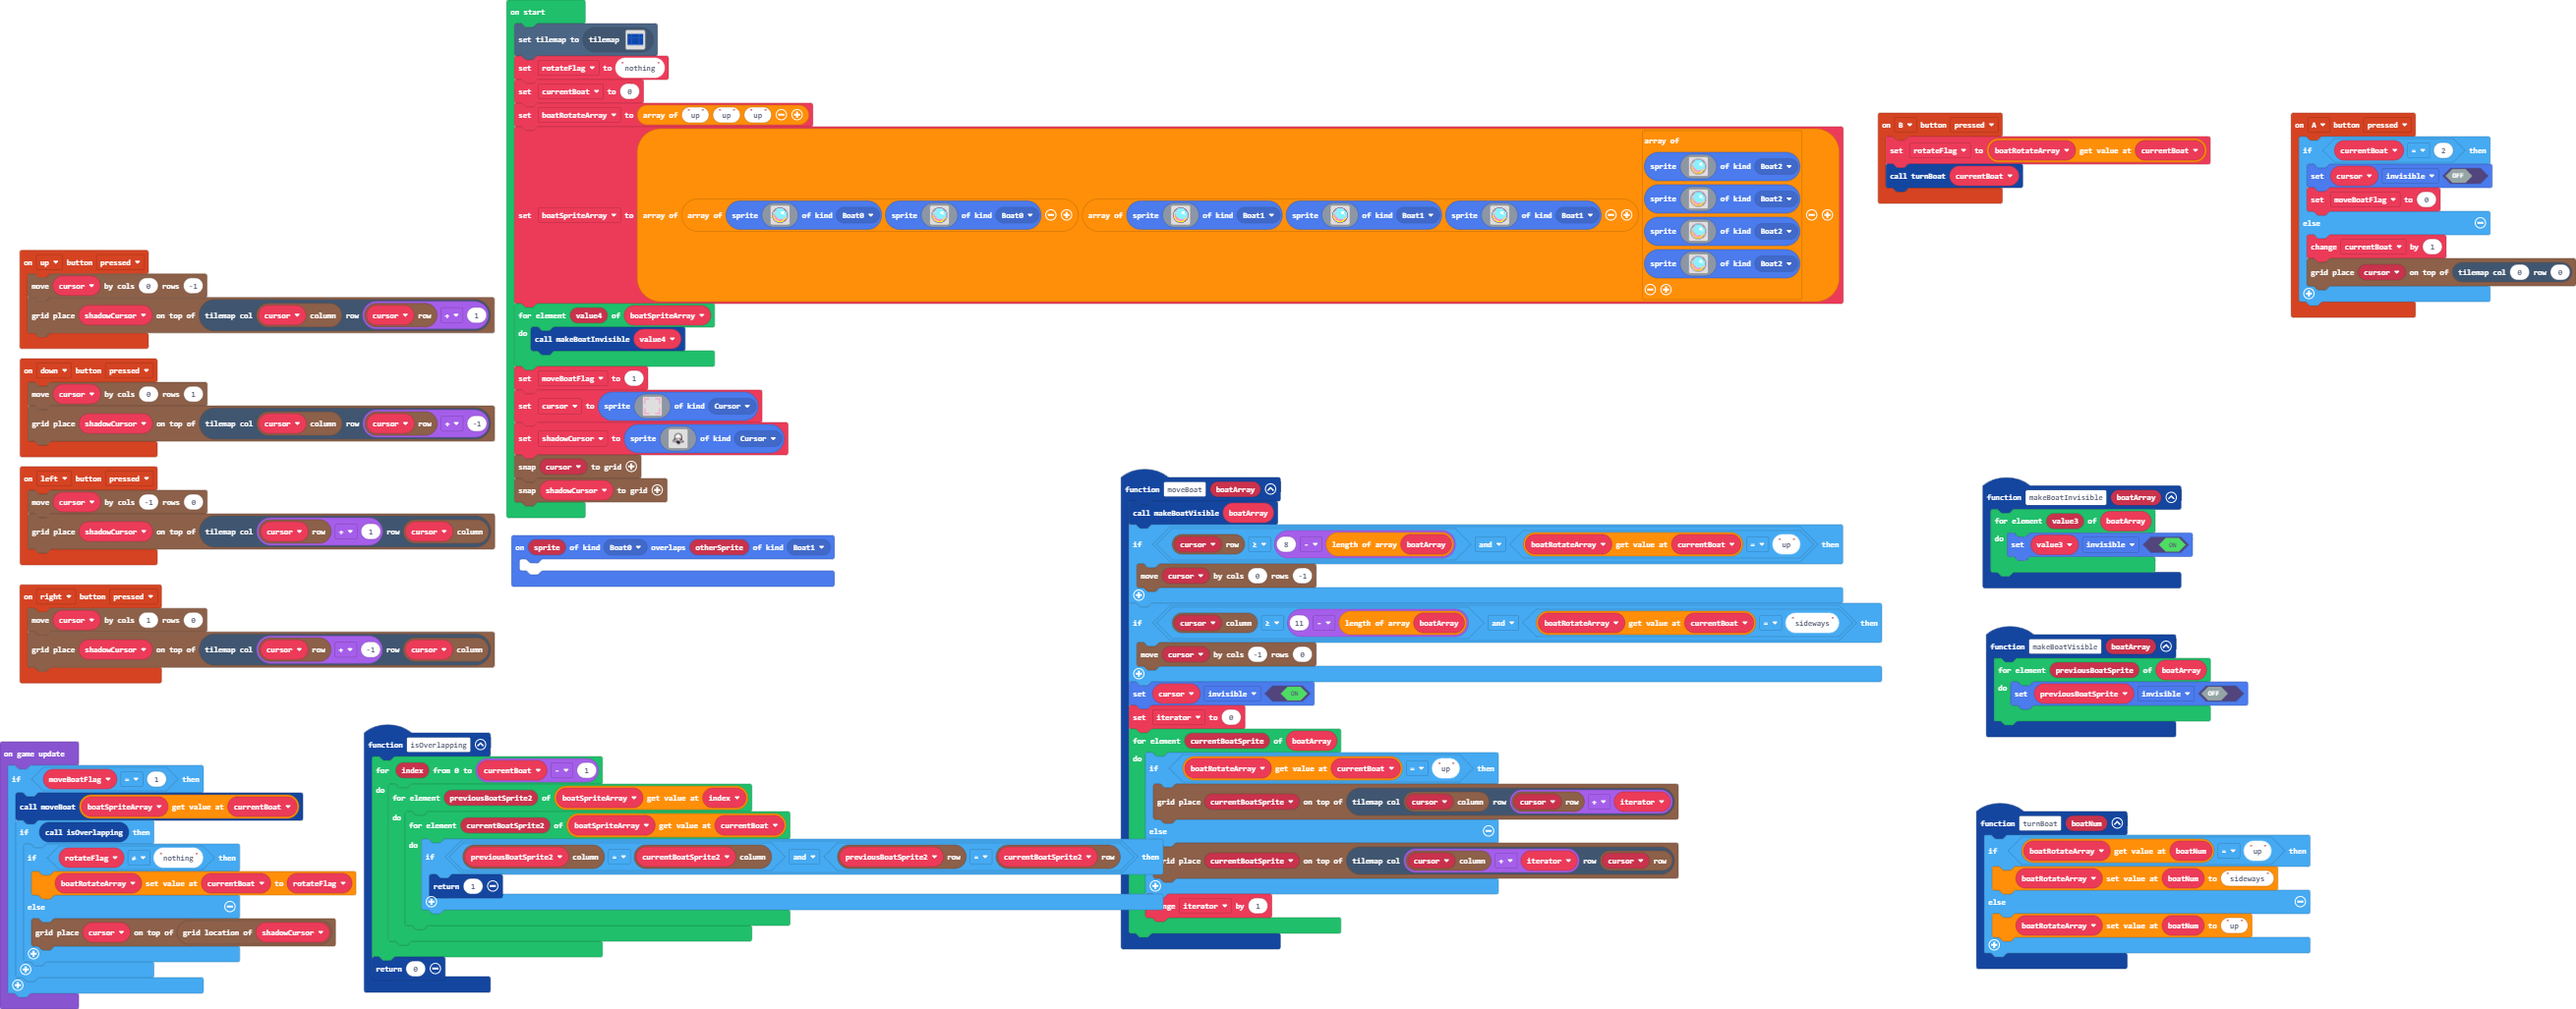
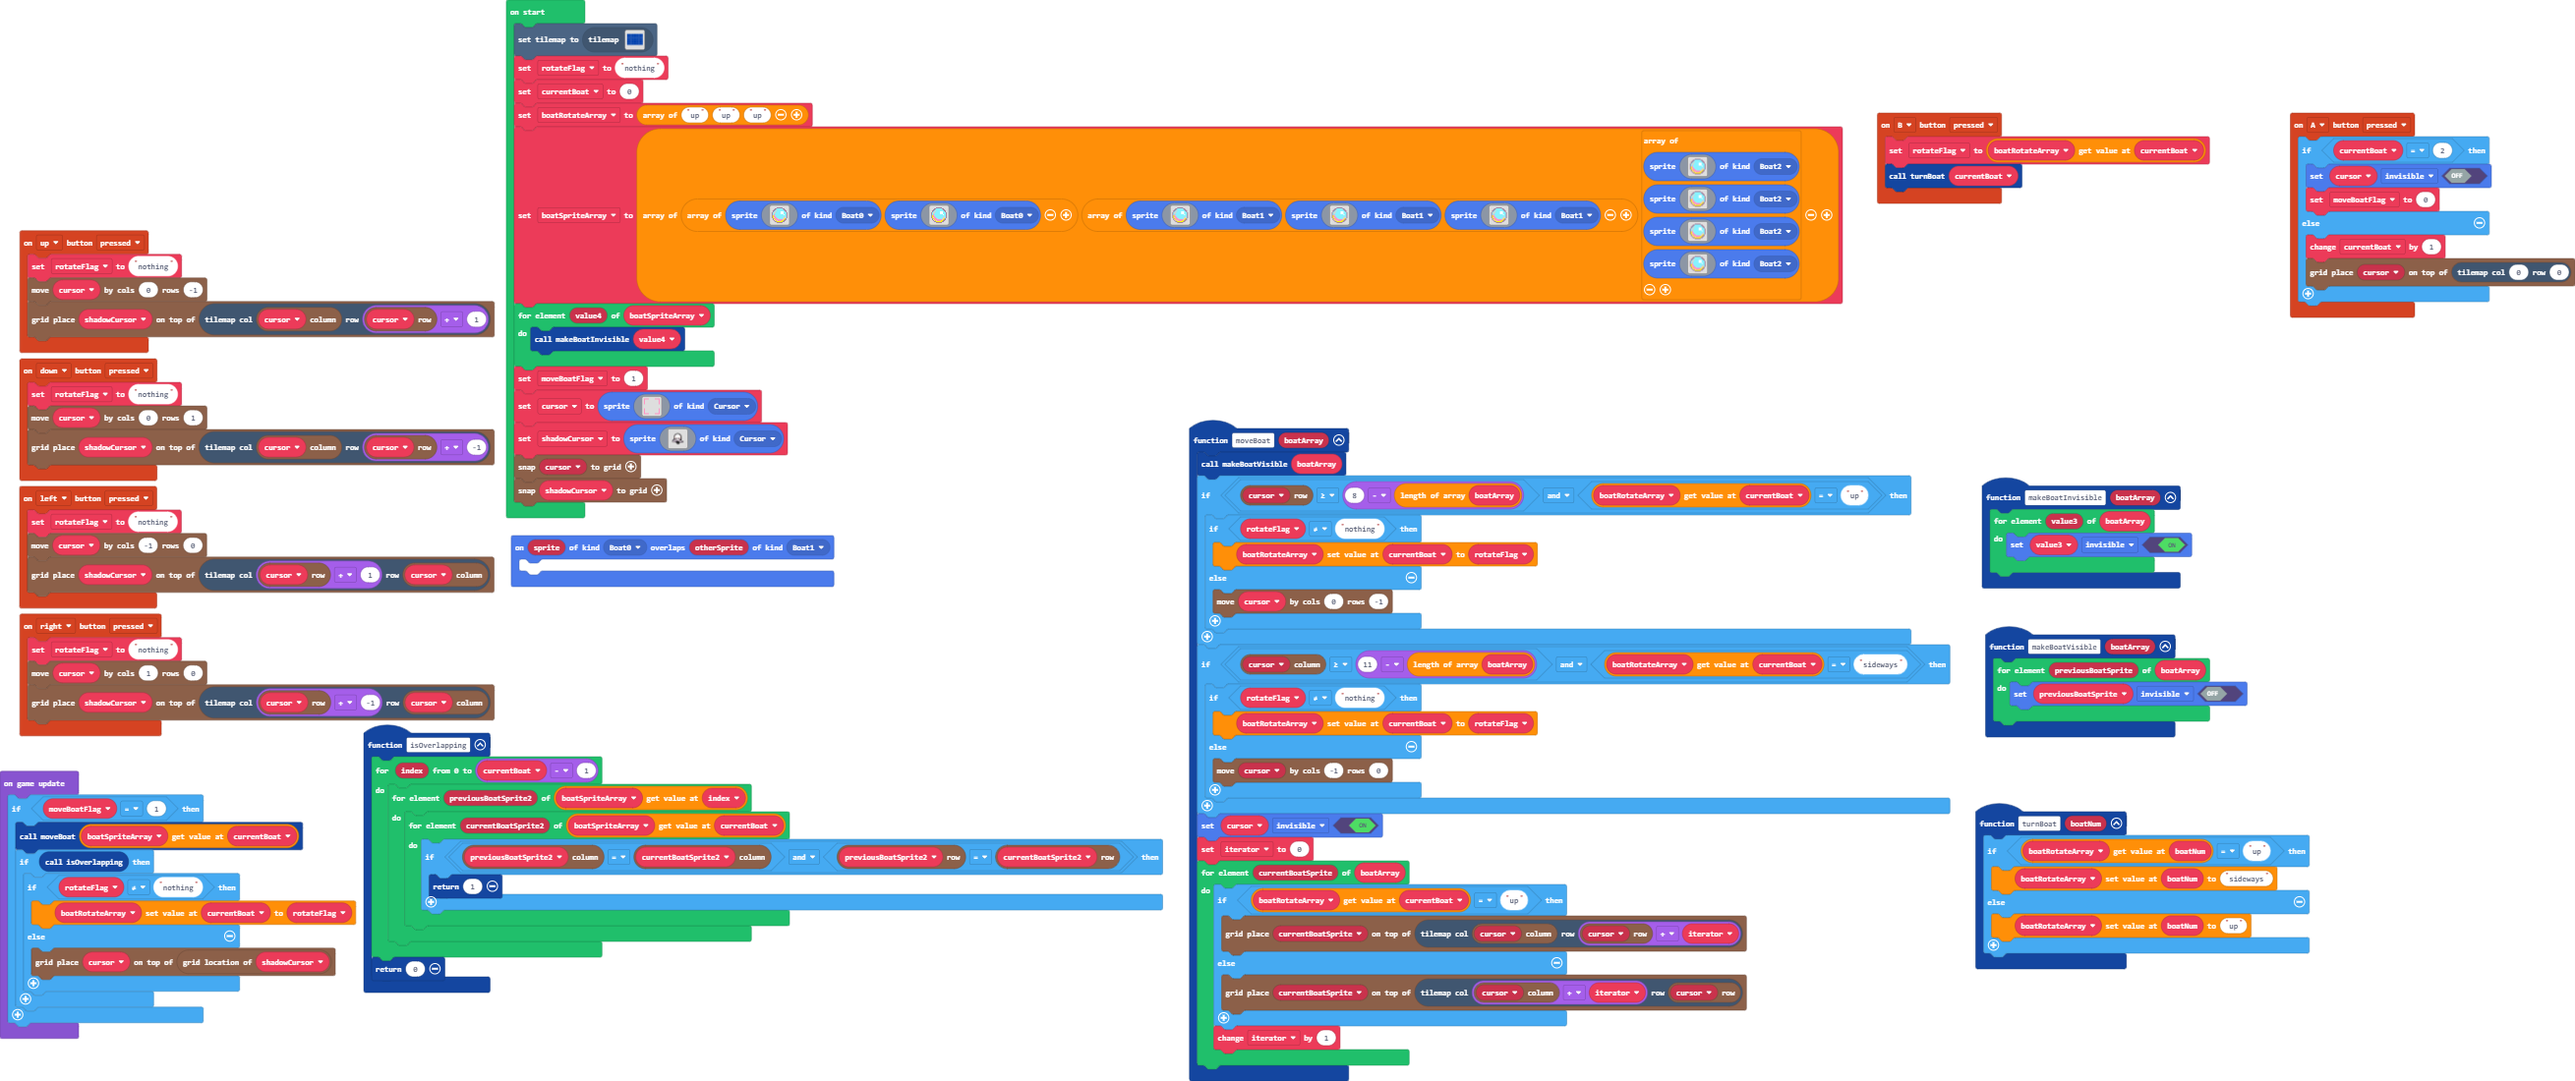
fixed rotate bug (bottom screen)

diff --git a/main.ts b/main.ts
@@ -5,6 +5,7 @@ namespace SpriteKind {
     export const Boat2 = SpriteKind.create()
 }
 controller.up.onEvent(ControllerButtonEvent.Pressed, function () {
+    rotateFlag = "nothing"
     grid.move(cursor, 0, -1)
     grid.place(shadowCursor, tiles.getTileLocation(grid.spriteCol(cursor), grid.spriteRow(cursor) + 1))
 })
@@ -30,20 +31,30 @@ controller.A.onEvent(ControllerButtonEvent.Pressed, function () {
     }
 })
 controller.left.onEvent(ControllerButtonEvent.Pressed, function () {
+    rotateFlag = "nothing"
     grid.move(cursor, -1, 0)
     grid.place(shadowCursor, tiles.getTileLocation(grid.spriteRow(cursor) + 1, grid.spriteCol(cursor)))
 })
 controller.right.onEvent(ControllerButtonEvent.Pressed, function () {
+    rotateFlag = "nothing"
     grid.move(cursor, 1, 0)
     grid.place(shadowCursor, tiles.getTileLocation(grid.spriteRow(cursor) + -1, grid.spriteCol(cursor)))
 })
 function moveBoat (boatArray: any[]) {
     makeBoatVisible(boatArray)
     if (grid.spriteRow(cursor) >= 8 - boatArray.length && boatRotateArray[currentBoat] == "up") {
-        grid.move(cursor, 0, -1)
+        if (rotateFlag != "nothing") {
+            boatRotateArray[currentBoat] = rotateFlag
+        } else {
+            grid.move(cursor, 0, -1)
+        }
     }
     if (grid.spriteCol(cursor) >= 11 - boatArray.length && boatRotateArray[currentBoat] == "sideways") {
-        grid.move(cursor, -1, 0)
+        if (rotateFlag != "nothing") {
+            boatRotateArray[currentBoat] = rotateFlag
+        } else {
+            grid.move(cursor, -1, 0)
+        }
     }
     cursor.setFlag(SpriteFlag.Invisible, true)
     iterator = 0
@@ -57,6 +68,7 @@ function moveBoat (boatArray: any[]) {
     }
 }
 controller.down.onEvent(ControllerButtonEvent.Pressed, function () {
+    rotateFlag = "nothing"
     grid.move(cursor, 0, 1)
     grid.place(shadowCursor, tiles.getTileLocation(grid.spriteCol(cursor), grid.spriteRow(cursor) + -1))
 })
